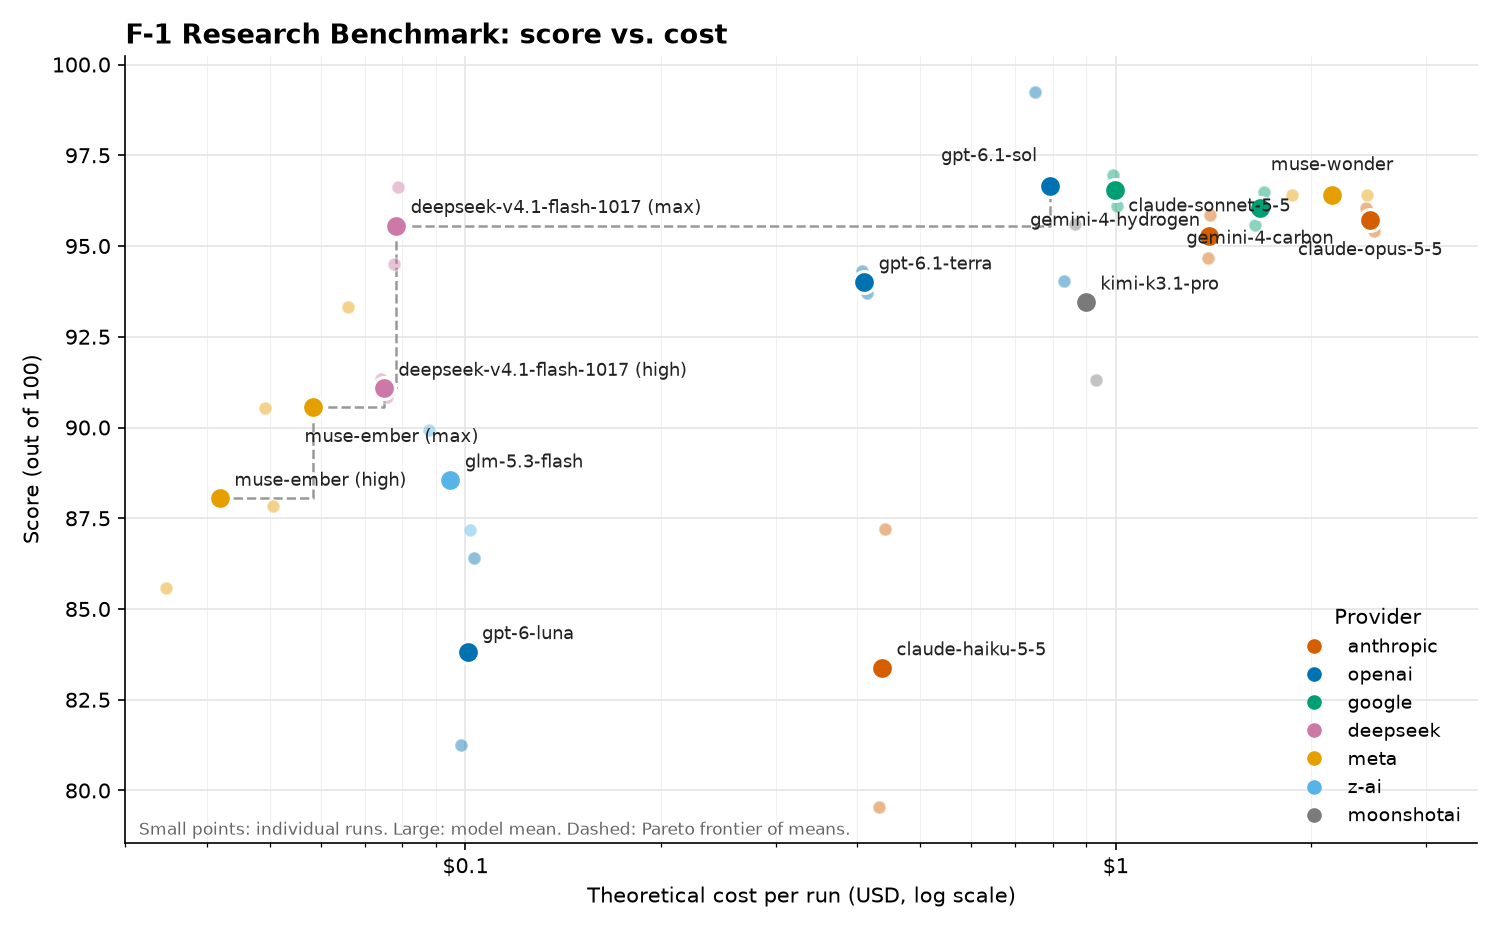
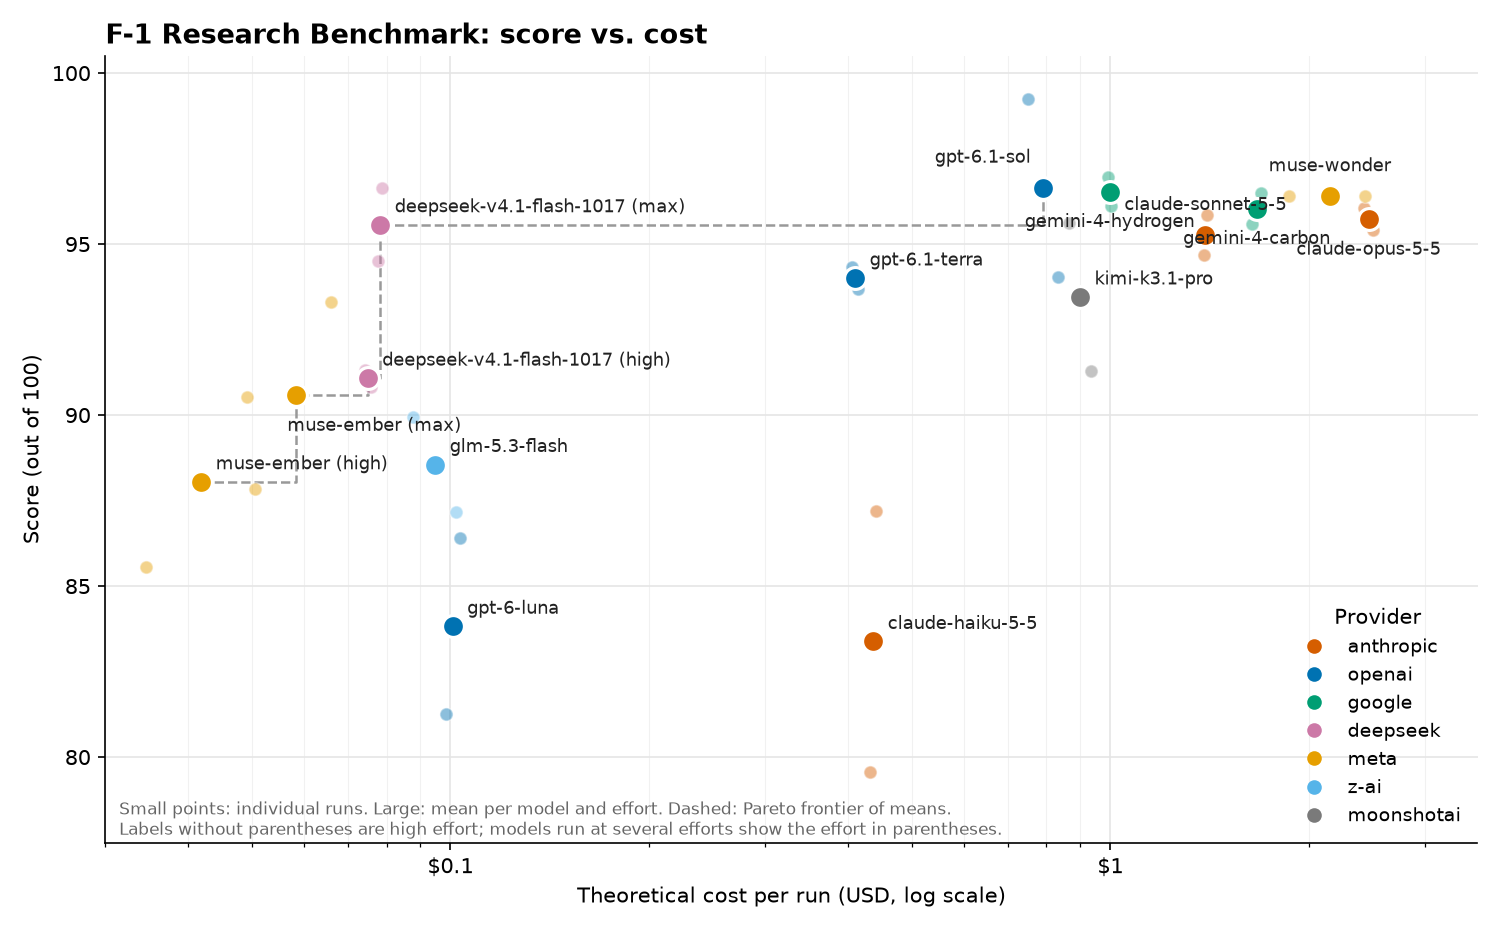
Note in plot that unparenthesized labels mean high effort
Claude-Session: https://claude.ai/code/session_01UYvC1fZq351BFJcFtXf7rx

diff --git a/analysis/plot_cost_vs_score.py b/analysis/plot_cost_vs_score.py
@@ -74,6 +74,7 @@ for _, r in summary.iterrows():
 ax.step(*zip(*front), where="post", color="#999", lw=1.2, ls="--", zorder=2)
 
 ax.set_xscale("log")
+ax.set_ylim(77.5, 100.5)
 ax.set_xlim(0.03, 3.6)
 ax.set_xlabel("Theoretical cost per run (USD, log scale)")
 ax.set_ylabel("Score (out of 100)")
@@ -85,7 +86,8 @@ for s in ("top", "right"):
 ax.xaxis.set_major_formatter(lambda v, _: f"${v:g}")
 handles = [plt.Line2D([], [], marker="o", ls="", color=c, label=p) for p, c in COLORS.items()]
 ax.legend(handles=handles, title="Provider", frameon=False, loc="lower right", fontsize=9)
-ax.text(0.01, 0.01, "Small points: individual runs. Large: model mean. Dashed: Pareto frontier of means.",
+ax.text(0.01, 0.01, "Small points: individual runs. Large: mean per model and effort. Dashed: Pareto frontier of means.\n"
+        "Labels without parentheses are high effort; models run at several efforts show the effort in parentheses.",
         transform=ax.transAxes, fontsize=8, color="#666")
 fig.tight_layout()
 fig.savefig(OUT / "cost_vs_score.png")
